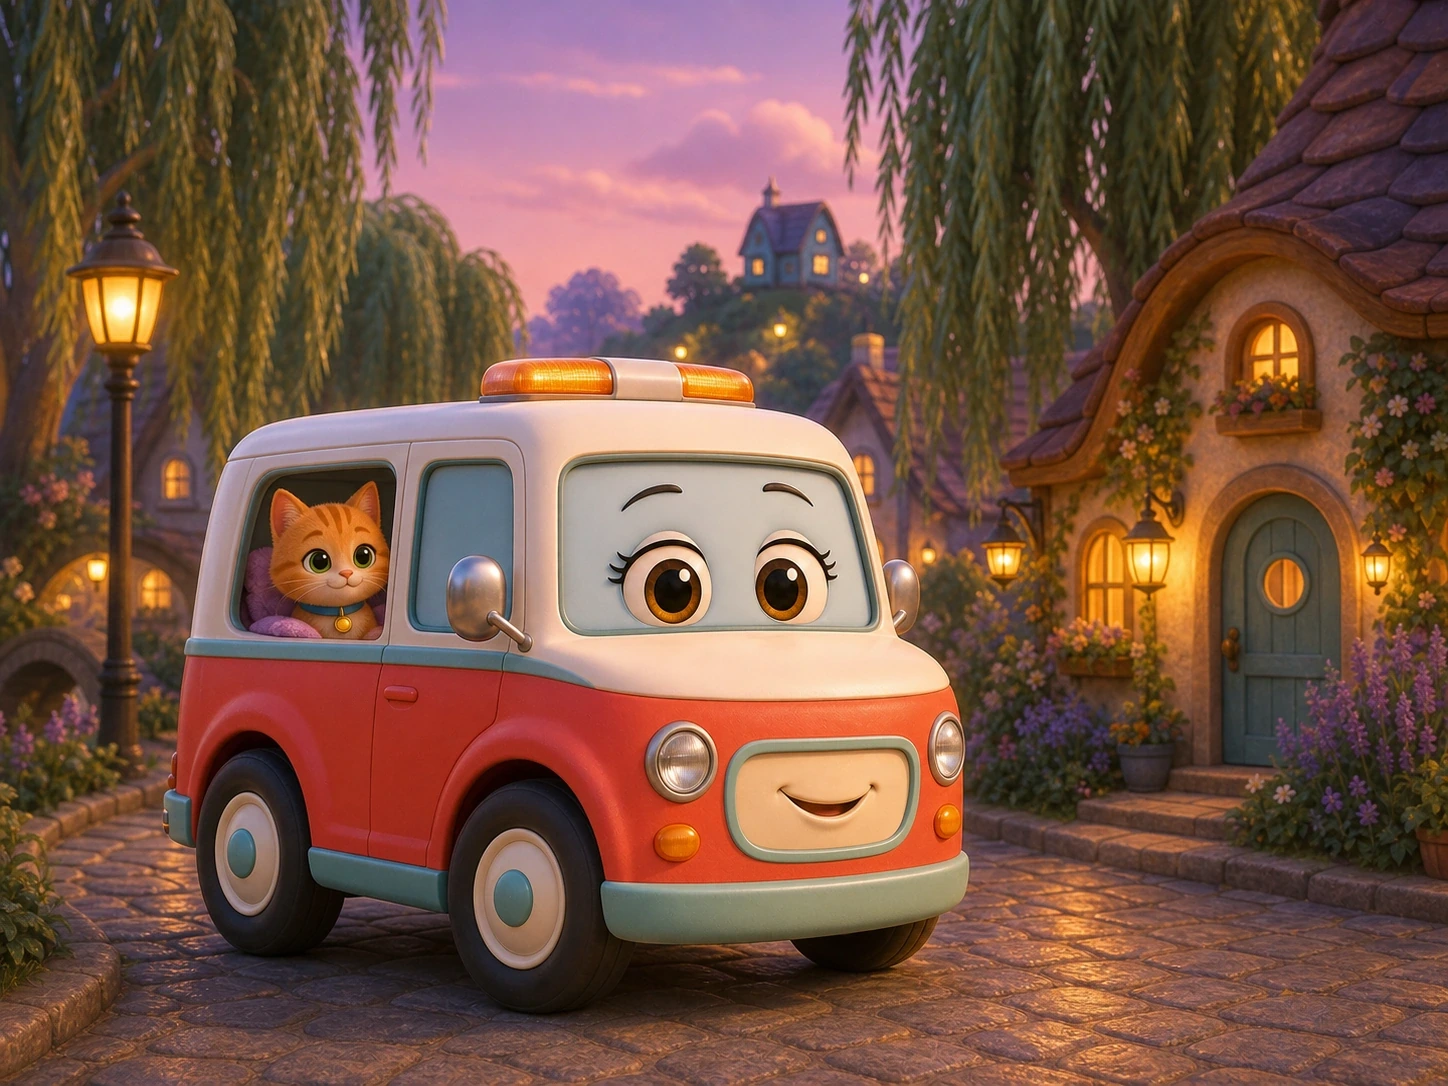
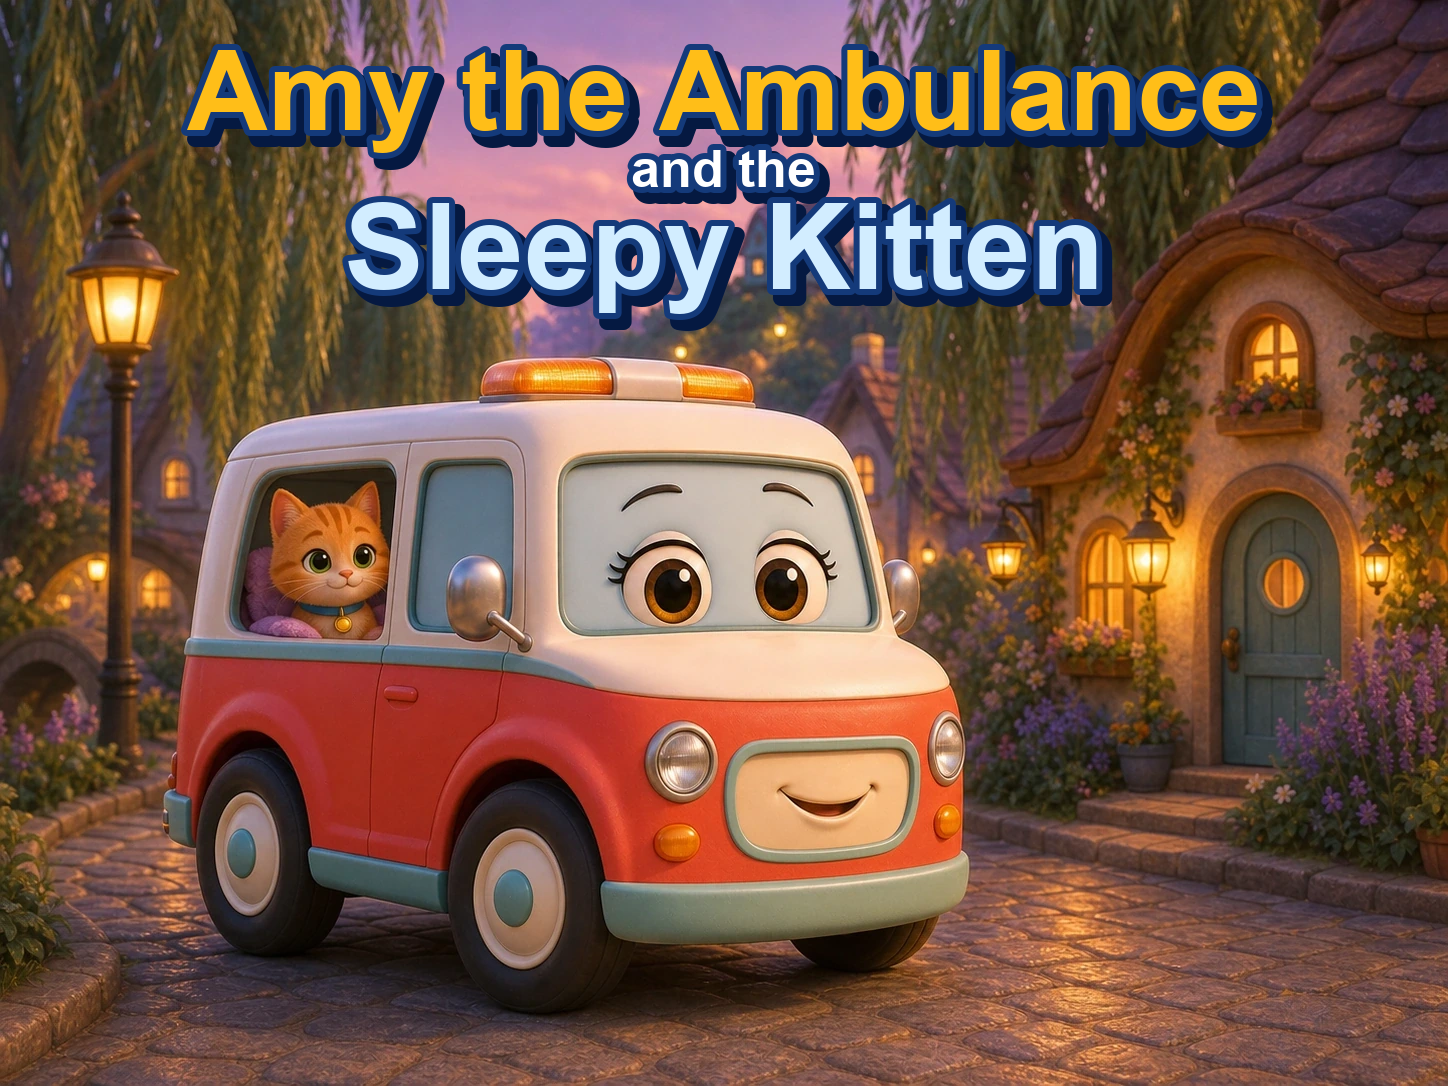
fix: repair Eddie page and missing cover titles

Changed region(s): [[0.1243, 0.0304, 0.9012, 0.3039]]

diff --git a/sw.js b/sw.js
@@ -1,4 +1,4 @@
-const CACHE='nolan-library-v39';
+const CACHE='nolan-library-v40';
 const CORE=['./','index.html','styles.css','app.js','config/narration-voices.json','manifest.webmanifest','assets/icons/icon-192.png','assets/icons/icon-512.png'];
 self.addEventListener('install',e=>e.waitUntil(caches.open(CACHE).then(c=>c.addAll(CORE)).then(()=>self.skipWaiting())));
 self.addEventListener('activate',e=>e.waitUntil(caches.keys().then(keys=>Promise.all(keys.filter(k=>k!==CACHE).map(k=>caches.delete(k)))).then(()=>self.clients.claim())));
